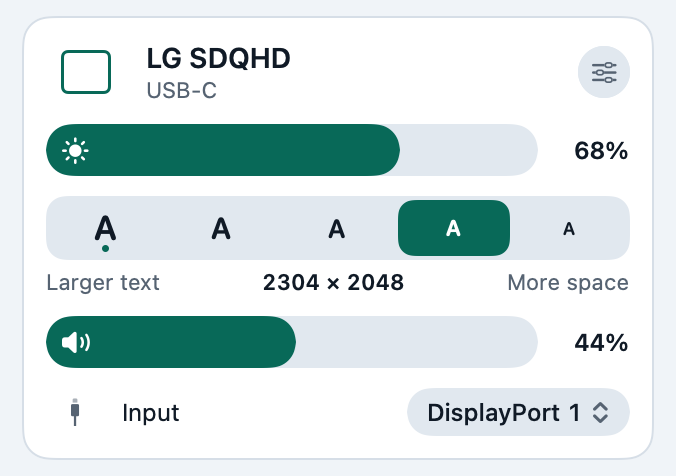
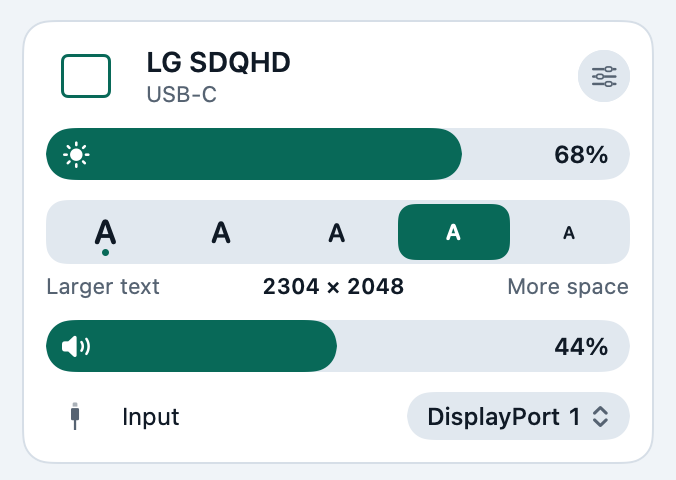
Docs: pictures and words for the 0.5.2 sliders and kept values
The pictures of the panel, a card, a display's page and the six skins are
retaken from the merged fixes: value bars the full width of the card with
the number inside, and "No volume control" on the monitor that ignores it.
Two new pictures show the calm note when a monitor kept its value and the
card once the control steps aside. The card crop moves with the taller
panel.

The brightness page, the panel page, the help page and the README's answer
about a monitor that ignores a control now say what 0.5.2 does: the number
in the bar and its dotted underline, the second send after a drag, the calm
note, the quiet line in the control's place, and Check Again. The brightness
page also says what was seen on hardware, and that a held brightness key is
not checked.

diff --git a/docs/guide/brightness-and-volume.md b/docs/guide/brightness-and-volume.md
@@ -16,7 +16,7 @@ Change a monitor's own backlight, contrast and speaker volume from the menu bar,
 ### Use it
 
 1. Click the display icon in the menu bar.
-2. Drag the **☀ bar** on a display's card.
+2. Drag the **☀ bar** on a display's card. The percentage sits inside the bar.
 3. Drag the **🔊 bar** for volume. Click the speaker symbol to mute.
 4. For **contrast**, click the sliders button at the top right of the card. The display's page opens: **Picture → Contrast**.
 
@@ -24,13 +24,38 @@ Change a monitor's own backlight, contrast and speaker volume from the menu bar,
 
 ### How a value is known
 
-The display's page says where each value comes from:
-
-| It says | Means |
+| The number in the bar | Means |
 |---|---|
-| **✓ The display says 68%** | Read back from the monitor |
-| **Display 16X sent** | Sent, and the monitor cannot be asked, as with dimming |
-| **Remembered, not confirmed since …** | The last value known, for example just after a wake |
+| **68%** | Read back from the monitor |
+| **68%** with a dotted line under it | Sent, and the monitor has not confirmed it, as with dimming. Point at it to see why |
+| The same, dimmed | The value the app remembers, for example just after a wake |
+
+The display's page says it in words, such as **✓ The display says 68%**.
+
+### When a monitor does not take a value
+
+After a drag, Display 16X reads the value back from the monitor. If the monitor dropped it, the app sends it again, up to twice.
+
+A monitor that keeps its old value gets a calm note, such as *"LEN P32p-20 kept its volume at 50%."* If it does that again, the app stops offering the control, and the card shows **No volume control** in its place, with the reason. **Check Again** on the display's page asks the monitor again what it supports.
+
+<table>
+<tr>
+<td align="center" valign="top" width="50%">
+<picture>
+  <source media="(prefers-color-scheme: dark)" srcset="../assets/note-kept-value-dark.webp">
+  <img src="../assets/note-kept-value-light.webp" width="344" alt="A calm note at the top of the panel: LEN P32p-20 kept its volume at 30%.">
+</picture>
+<br><sub>The first time: a calm note</sub>
+</td>
+<td align="center" valign="top" width="50%">
+<picture>
+  <source media="(prefers-color-scheme: dark)" srcset="../assets/card-no-volume-dark.webp">
+  <img src="../assets/card-no-volume-light.webp" width="338" alt="The LEN P32p-20 card with brightness and text size, and a quiet line in place of volume: No volume control. The monitor reports a volume level and ignores changes to it.">
+</picture>
+<br><sub>The second time: the control steps aside</sub>
+</td>
+</tr>
+</table>
 
 ### Darker than the monitor goes
 
@@ -81,7 +106,9 @@ display16x set restoreAfterWake on --tag 2
 ### Good to know
 
 > [!NOTE]
-> - Brightness, contrast and volume go over the monitor's control channel, DDC/CI, so each monitor decides what it accepts. On the test desk, brightness and contrast were confirmed on both monitors, and volume on one. The other ignores volume, and the app marks it so.
+> - Brightness, contrast and volume go over the monitor's control channel, DDC/CI, so each monitor decides what it accepts. On the test desk, brightness and contrast were confirmed on both monitors, and volume on one. The other ignores volume.
+> - Checking after a drag was tried on hardware: on the LG SDQHD, 60 of 60 checked writes ended on the value asked for, 7 of them after a second send. The calm note and the **No volume control** line are unit-tested and drawn, not yet seen on a real monitor.
+> - A brightness key held down sends a run of steps without checking the last one, so a monitor that drops writes while busy can end a step or so short.
 > - Mute has been read on hardware but never written. Switching the input is built, asks you to confirm, and has never been run on hardware, because it can cut the Mac off from the monitor.
 > - Built-in and Apple displays use macOS's own brightness. Built, not yet tried on such a display.
 > - The brightness keys were checked on both monitors with 0.5.1. The volume keys, and the keys reaching a display that mirrors another, are unit-tested and not yet tried on hardware.

diff --git a/README.md b/README.md
@@ -14,7 +14,7 @@ Hardware brightness and volume, keys that reach the monitor, every text size it 
 
 <picture>
   <source media="(prefers-color-scheme: dark)" srcset="docs/assets/panel-dark.webp">
-  <img src="docs/assets/panel-light.webp" width="360" alt="The Display 16X panel with two monitors. Each card has a brightness bar and a text-size strip with the size in use; the second card also has a volume bar and its input. Scenes sit along the top, Arrange and Settings along the bottom.">
+  <img src="docs/assets/panel-light.webp" width="360" alt="The Display 16X panel with two monitors. Each card has a full-width brightness bar with the percentage inside and a text-size strip with the size in use. The first card says No volume control; the second has a volume bar and its input. Scenes sit along the top, Arrange and Settings along the bottom.">
 </picture>
 
 <sub>Free and open source, by <a href="https://16xbrains.com/">16X Brains</a>.</sub>
@@ -178,7 +178,7 @@ Six ready-made looks or two colors of your own, kept readable in light, dark and
 <details>
 <summary><b>A monitor ignores volume or brightness</b></summary>
 
-Each monitor decides which controls it accepts over DDC/CI. Display 16X reads a value back after it changes it, and marks a control the monitor reports but ignores. The Lenovo P32p-20 ignores volume, for example. Brightness still goes lower with software dimming (**Settings → General**). `display16x probe` prints what each monitor answers, read only.
+Each monitor decides which controls it accepts over DDC/CI. After a change, Display 16X reads the value back and sends it again if the monitor dropped it. A monitor that keeps its old value gets a calm note, such as *"LEN P32p-20 kept its volume at 50%."* If it does that again, the app stops offering the control and the card shows **No volume control** in its place. The Lenovo P32p-20 is one such monitor. **Check Again** on the display's page asks the monitor afresh, brightness still goes lower with software dimming (**Settings → General**), and `display16x probe` prints what each monitor answers, read only.
 
 </details>
 

diff --git a/docs/guide/panel.md b/docs/guide/panel.md
@@ -6,16 +6,16 @@ Everything starts at the display icon in the menu bar. Click it for one card per
 
 <picture>
   <source media="(prefers-color-scheme: dark)" srcset="../assets/panel-dark.webp">
-  <img src="../assets/panel-light.webp" width="340" align="right" alt="The panel: scenes along the top, a card for each of two monitors, and Arrange, Settings and Quit along the bottom.">
+  <img src="../assets/panel-light.webp" width="340" align="right" alt="The panel: scenes along the top, a card for each of two monitors with full-width bars, and Arrange, Settings and Quit along the bottom.">
 </picture>
 
 ### From top to bottom
 
 - **Scenes**: your saved setups, one press each. <kbd>+</kbd> saves the one you have now. See [Scenes](scenes-and-shortcuts.md)
 - **A card per display**: its shape drawn to scale, its name, size in inches, how it is connected, and whether it is the main display
-- ☀ **Brightness bar**: drag it. See [Brightness and volume](brightness-and-volume.md)
+- ☀ **Brightness bar**: the full width of the card, with the percentage inside. Drag it. See [Brightness and volume](brightness-and-volume.md)
 - **Text-size strip**: larger text on the left, more space on the right. The dot marks the display's default. See [Text size](text-size.md)
-- 🔊 **Volume bar** and **Input**: only on a monitor that offers them
+- 🔊 **Volume bar** and **Input**: only on a monitor that offers them. A monitor found to ignore volume shows **No volume control** instead
 - **Sliders button**: opens the display's page, one level down
 - **Arrange · Settings · ⏻**: your desk drawn to scale, the [settings window](settings.md), and Quit
 

diff --git a/docs/guide/troubleshooting.md b/docs/guide/troubleshooting.md
@@ -49,11 +49,16 @@ Nothing is restored or put back by itself: no values after sleep, no protected l
 
 ### The volume keys do nothing
 
-They change a monitor only while the sound plays through it. Pick the monitor as the sound output in Control Center or **System Settings → Sound**. Some monitors ignore volume over DDC; see the next answer.
+They change a monitor only while the sound plays through it. Pick the monitor as the sound output in Control Center or **System Settings → Sound**. If its card says **No volume control**, the monitor ignores volume over DDC; see the next answer.
 
 ### A monitor ignores a control
 
-Each monitor decides which controls it accepts over DDC/CI. Display 16X reads a value back after it changes it, and marks a control the monitor reports but ignores. A monitor in standby may not answer at all: the app keeps what it knew and asks again after a wake. Click **Check Again** on the display's page to ask it what it supports.
+Each monitor decides which controls it accepts over DDC/CI. After a change, Display 16X reads the value back and sends it again, up to twice, if the monitor dropped it.
+
+- A monitor that keeps its old value gets a calm note, such as *"LEN P32p-20 kept its volume at 50%."* That is the monitor, not a fault in the app.
+- If it does that again, the app stops offering the control, and the card shows a quiet line such as **No volume control** with the reason.
+- A monitor in standby may not answer at all: the app keeps what it knew and asks again after a wake.
+- Click **Check Again** on the display's page to ask the monitor again what it supports.
 
 ### The picture is too dark
 
